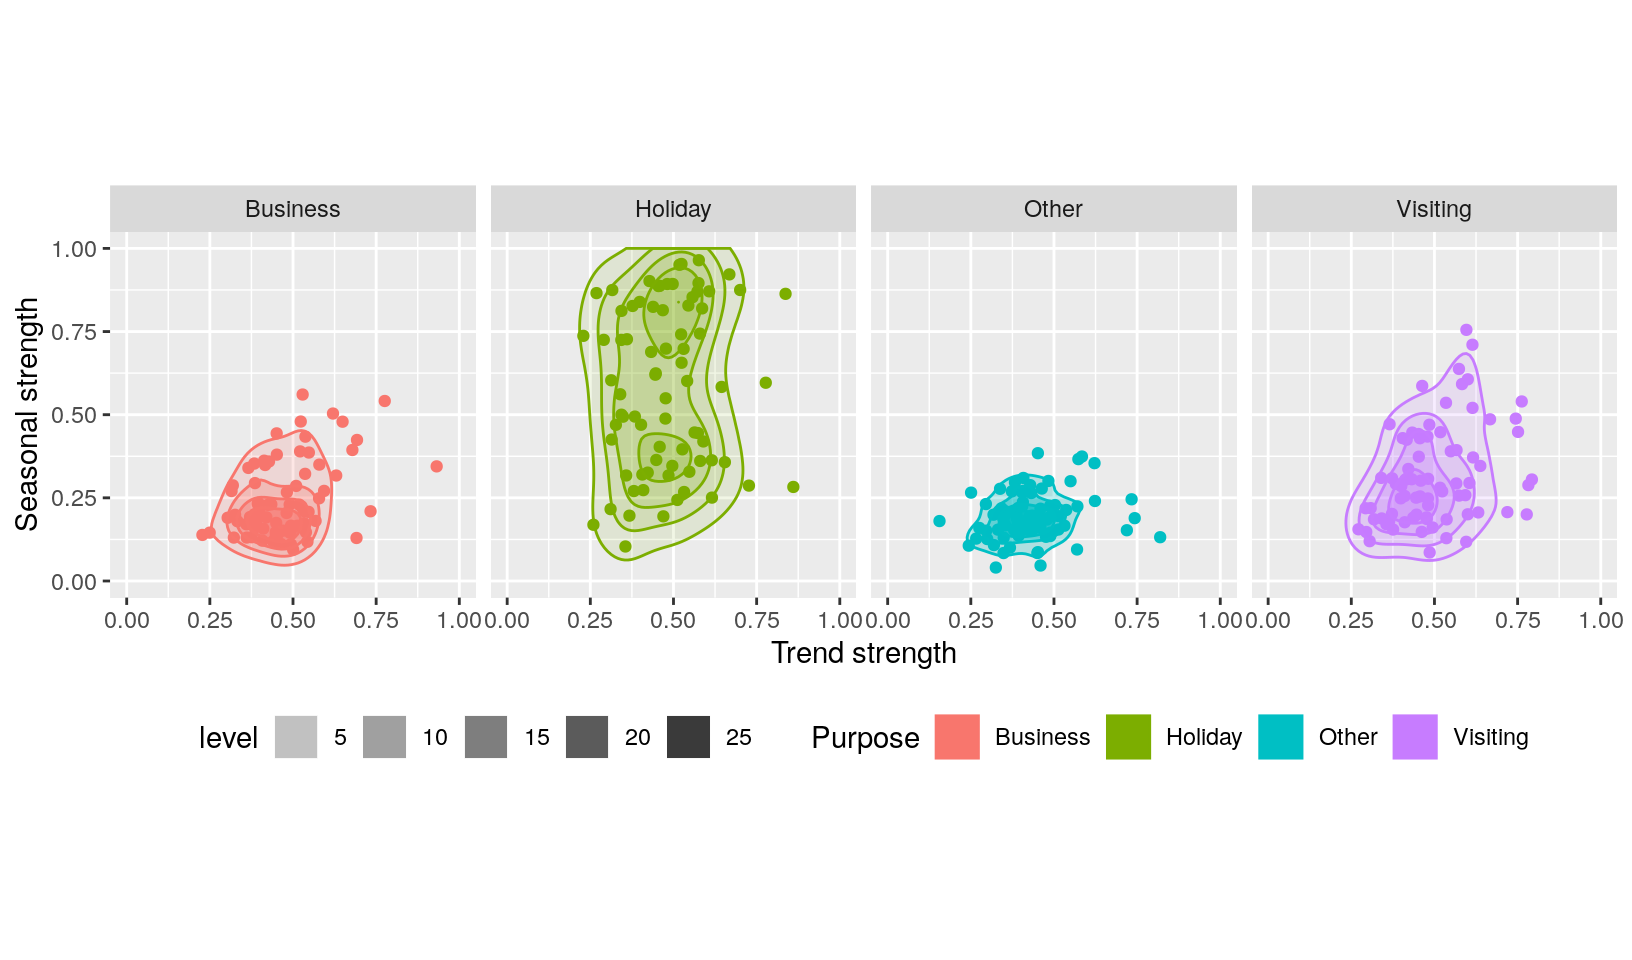
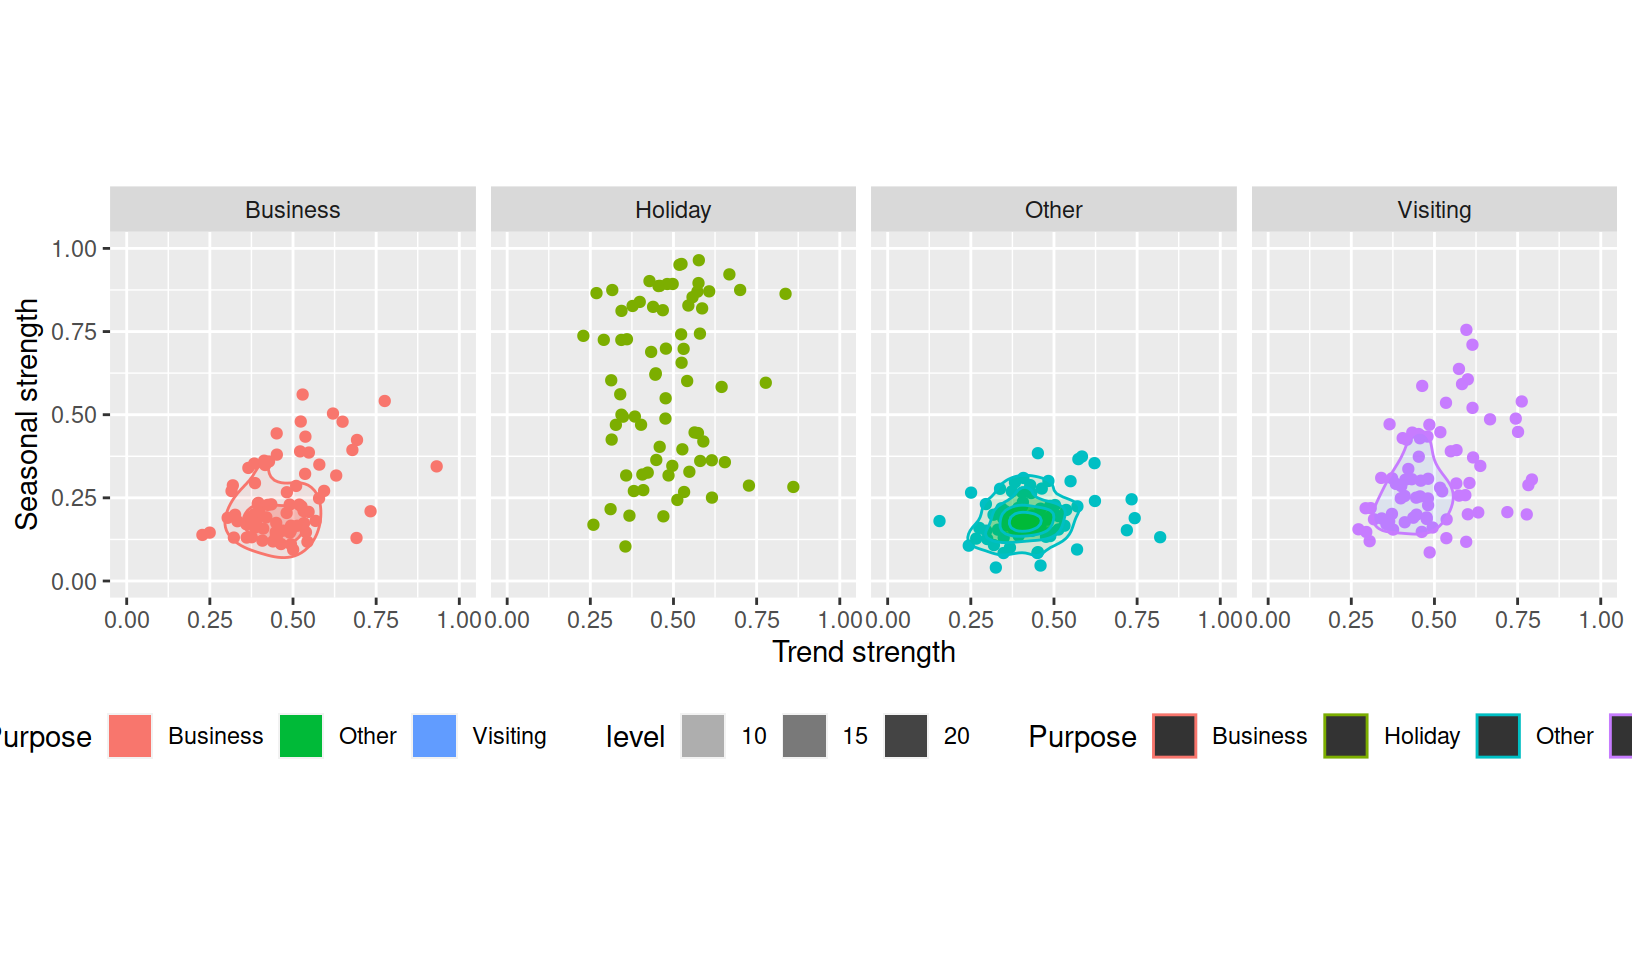
Updated decomposition components code for feasts intro blog

diff --git a/content/blog/2019-08-30-introducing-feasts.html b/content/blog/2019-08-30-introducing-feasts.html
@@ -17,6 +17,9 @@ feature_alt: 'fable: tidy time series forecasting'
 type: post
 ---
 
+<script src="/rmarkdown-libs/header-attrs/header-attrs.js"></script>
+<link href="/rmarkdown-libs/anchor-sections/anchor-sections.css" rel="stylesheet" />
+<script src="/rmarkdown-libs/anchor-sections/anchor-sections.js"></script>
 
 
 <img src="/blog/2019-08-30-introducing-feasts_files/feasts.png" class="hex"/>
@@ -109,35 +112,38 @@ library(feasts)</code></pre>
 <pre class="r"><code>tourism %&gt;% 
   group_by(Purpose) %&gt;% 
   summarise(Trips = sum(Trips)) %&gt;% 
-  STL(Trips ~ season(window = 5))</code></pre>
-<pre><code>## # A dable:           320 x 7 [1Q]
-## # Key:               Purpose [4]
+  model(STL(Trips ~ season(window = 5))) %&gt;% 
+  components()</code></pre>
+<pre><code>## # A dable:           320 x 8 [1Q]
+## # Key:               Purpose, .model [4]
 ## # STL Decomposition: Trips = trend + season_year + remainder
-##    Purpose  Quarter Trips trend season_year remainder season_adjust
-##    &lt;chr&gt;      &lt;qtr&gt; &lt;dbl&gt; &lt;dbl&gt;       &lt;dbl&gt;     &lt;dbl&gt;         &lt;dbl&gt;
-##  1 Business 1998 Q1 3599. 3814.     -425.       210.          4024.
-##  2 Business 1998 Q2 3724. 3854.      185.      -315.          3539.
-##  3 Business 1998 Q3 4356. 3895.      296.       165.          4060.
-##  4 Business 1998 Q4 3796. 3936.      -42.9      -97.7         3838.
-##  5 Business 1999 Q1 3335. 3991.     -431.      -225.          3766.
-##  6 Business 1999 Q2 4714. 3986.      174.       555.          4540.
-##  7 Business 1999 Q3 4190. 3986.      285.       -81.4         3905.
-##  8 Business 1999 Q4 3701. 3970.        1.45    -271.          3700.
-##  9 Business 2000 Q1 3562. 3943.     -464.        83.8         4026.
-## 10 Business 2000 Q2 4018. 3991.      162.      -135.          3856.
+##    Purpose  .model       Quarter Trips trend season_year remainder season_adjust
+##    &lt;chr&gt;    &lt;chr&gt;          &lt;qtr&gt; &lt;dbl&gt; &lt;dbl&gt;       &lt;dbl&gt;     &lt;dbl&gt;         &lt;dbl&gt;
+##  1 Business STL(Trips ~… 1998 Q1 3599. 3814.     -425.       210.          4024.
+##  2 Business STL(Trips ~… 1998 Q2 3724. 3854.      185.      -315.          3539.
+##  3 Business STL(Trips ~… 1998 Q3 4356. 3895.      296.       165.          4060.
+##  4 Business STL(Trips ~… 1998 Q4 3796. 3936.      -42.9      -97.7         3838.
+##  5 Business STL(Trips ~… 1999 Q1 3335. 3991.     -431.      -225.          3766.
+##  6 Business STL(Trips ~… 1999 Q2 4714. 3986.      174.       555.          4540.
+##  7 Business STL(Trips ~… 1999 Q3 4190. 3986.      285.       -81.4         3905.
+##  8 Business STL(Trips ~… 1999 Q4 3701. 3970.        1.45    -271.          3700.
+##  9 Business STL(Trips ~… 2000 Q1 3562. 3943.     -464.        83.8         4026.
+## 10 Business STL(Trips ~… 2000 Q2 4018. 3991.      162.      -135.          3856.
 ## # … with 310 more rows</code></pre>
 <p>The decomposed table (<code>dable</code>) explains how the <code>Trips</code> variable has been split into three new series via <code>Trips = trend + season_year + remainder</code>, which has been done for all four travel purposes.</p>
 <pre class="r"><code>tourism %&gt;% 
   group_by(Purpose) %&gt;% 
   summarise(Trips = sum(Trips)) %&gt;% 
-  STL(Trips ~ season(window = 5)) %&gt;% 
+  model(STL(Trips ~ season(window = 5))) %&gt;% 
+  components() %&gt;% 
   autoplot()</code></pre>
 <p><img src="/blog/2019-08-30-introducing-feasts_files/figure-html/dcmp-plot-1.png" width="816" /></p>
 <p>The dable can also be plotted to show how each of the decomposed components vary between series and time. A dable also behaves very similarly to a tsibble, allowing you to visualise the seasonality without distractions of trend and remainder terms.</p>
 <pre class="r"><code>tourism %&gt;% 
   group_by(Purpose) %&gt;% 
   summarise(Trips = sum(Trips)) %&gt;% 
-  STL(Trips ~ season(window = 5)) %&gt;% 
+  model(STL(Trips ~ season(window = 5))) %&gt;%
+  components() %&gt;% 
   gg_season(season_year)</code></pre>
 <p><img src="/blog/2019-08-30-introducing-feasts_files/figure-html/dcmp-season-1.png" width="816" /></p>
 </div>
@@ -148,21 +154,22 @@ library(feasts)</code></pre>
 <p>The STL decomposition above can be used to compute features about the <a href="https://otexts.com/fpp3/seasonal-strength.html">strength of the its trend and seasonality components</a>, allowing us to see an overview of the entire dataset’s patterns.</p>
 <pre class="r"><code>tourism %&gt;% 
   features(Trips, feature_set(tags = &quot;stl&quot;))</code></pre>
-<pre><code>## # A tibble: 304 x 10
-##    Region State Purpose trend_strength seasonal_streng… spikiness linearity
-##    &lt;chr&gt;  &lt;chr&gt; &lt;chr&gt;            &lt;dbl&gt;            &lt;dbl&gt;     &lt;dbl&gt;     &lt;dbl&gt;
-##  1 Adela… Sout… Busine…          0.451            0.380   1.62e+2    -5.51 
-##  2 Adela… Sout… Holiday          0.541            0.601   9.95e+0    48.9  
-##  3 Adela… Sout… Other            0.743            0.189   2.28e+0    95.0  
-##  4 Adela… Sout… Visiti…          0.433            0.446   6.01e+1    34.9  
-##  5 Adela… Sout… Busine…          0.453            0.140   1.18e-1     0.944
-##  6 Adela… Sout… Holiday          0.512            0.244   1.92e-1    10.4  
-##  7 Adela… Sout… Other            0.584            0.374   5.02e-4     4.29 
-##  8 Adela… Sout… Visiti…          0.481            0.228   7.56e+0    34.3  
-##  9 Alice… Nort… Busine…          0.526            0.224   1.79e-1    23.8  
-## 10 Alice… Nort… Holiday          0.377            0.827   8.13e-1   -19.6  
-## # … with 294 more rows, and 3 more variables: curvature &lt;dbl&gt;,
-## #   seasonal_peak_year &lt;dbl&gt;, seasonal_trough_year &lt;dbl&gt;</code></pre>
+<pre><code>## # A tibble: 304 x 12
+##    Region State Purpose trend_strength seasonal_streng… seasonal_peak_y…
+##    &lt;chr&gt;  &lt;chr&gt; &lt;chr&gt;            &lt;dbl&gt;            &lt;dbl&gt;            &lt;dbl&gt;
+##  1 Adela… Sout… Busine…          0.451            0.380                3
+##  2 Adela… Sout… Holiday          0.541            0.601                1
+##  3 Adela… Sout… Other            0.743            0.189                2
+##  4 Adela… Sout… Visiti…          0.433            0.446                1
+##  5 Adela… Sout… Busine…          0.453            0.140                3
+##  6 Adela… Sout… Holiday          0.512            0.244                2
+##  7 Adela… Sout… Other            0.584            0.374                2
+##  8 Adela… Sout… Visiti…          0.481            0.228                0
+##  9 Alice… Nort… Busine…          0.526            0.224                0
+## 10 Alice… Nort… Holiday          0.377            0.827                3
+## # … with 294 more rows, and 6 more variables: seasonal_trough_year &lt;dbl&gt;,
+## #   spikiness &lt;dbl&gt;, linearity &lt;dbl&gt;, curvature &lt;dbl&gt;, stl_e_acf1 &lt;dbl&gt;,
+## #   stl_e_acf10 &lt;dbl&gt;</code></pre>
 <p>The features from an STL decomposition also describe other behaviours such as how linear, curved, and spiky the data is. This dataset of features can be used with ggplot2 (and other packages) to produce stunning overviews of many time series.</p>
 <pre class="r"><code>tourism %&gt;% 
   features(Trips, feature_set(tags = &quot;stl&quot;)) %&gt;% 
@@ -176,7 +183,7 @@ library(feasts)</code></pre>
   theme(legend.position = &quot;bottom&quot;)</code></pre>
 <p><img src="/blog/2019-08-30-introducing-feasts_files/figure-html/features-plot-1.png" width="816" /></p>
 <p>Here, it is clear that holiday travel is the most seasonal purpose of tourism in Australia, however this is only the case for some regions. The strength of trend in these series varies similarly across travel purpose.</p>
-<p>The first release includes a total of 42 feature metrics, which can be computed together using <code>feature_set(pkgs = &quot;feasts&quot;)</code>. A list of all currently available features can be found in links from the <code>?feature_set</code> help file.</p>
+<p>The first release includes a total of 42 feature metrics, which can be computed together using <code>feature_set(pkgs = "feasts")</code>. A list of all currently available features can be found in links from the <code>?feature_set</code> help file.</p>
 </div>
 <div id="read-more-about-feasts" class="section level1">
 <h1>Read more about feasts</h1>
